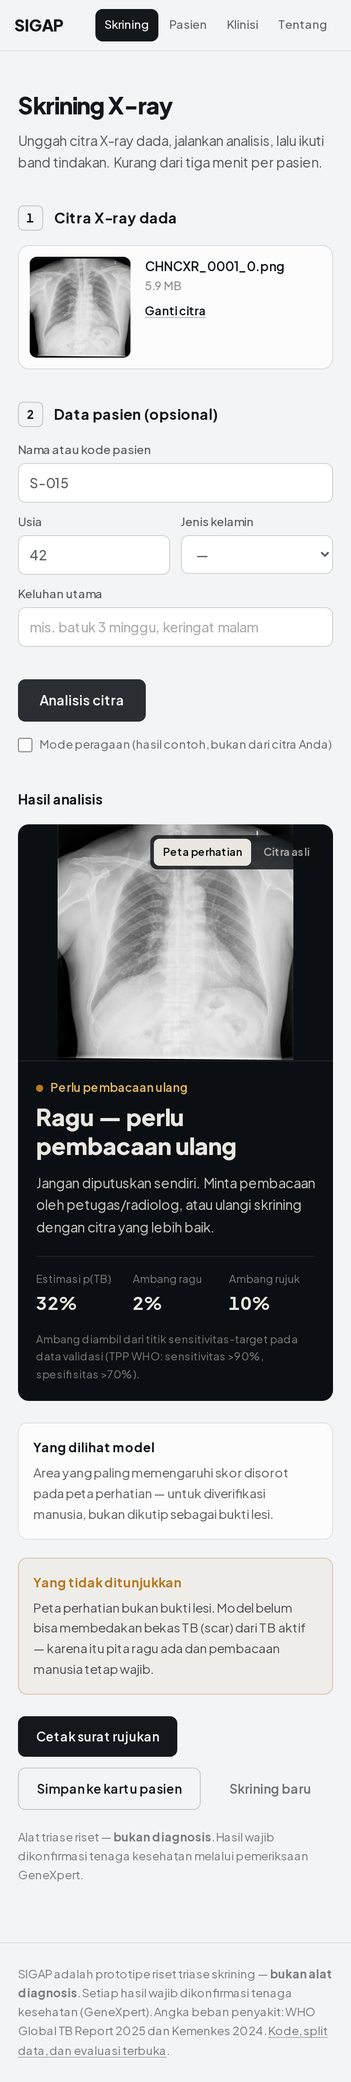
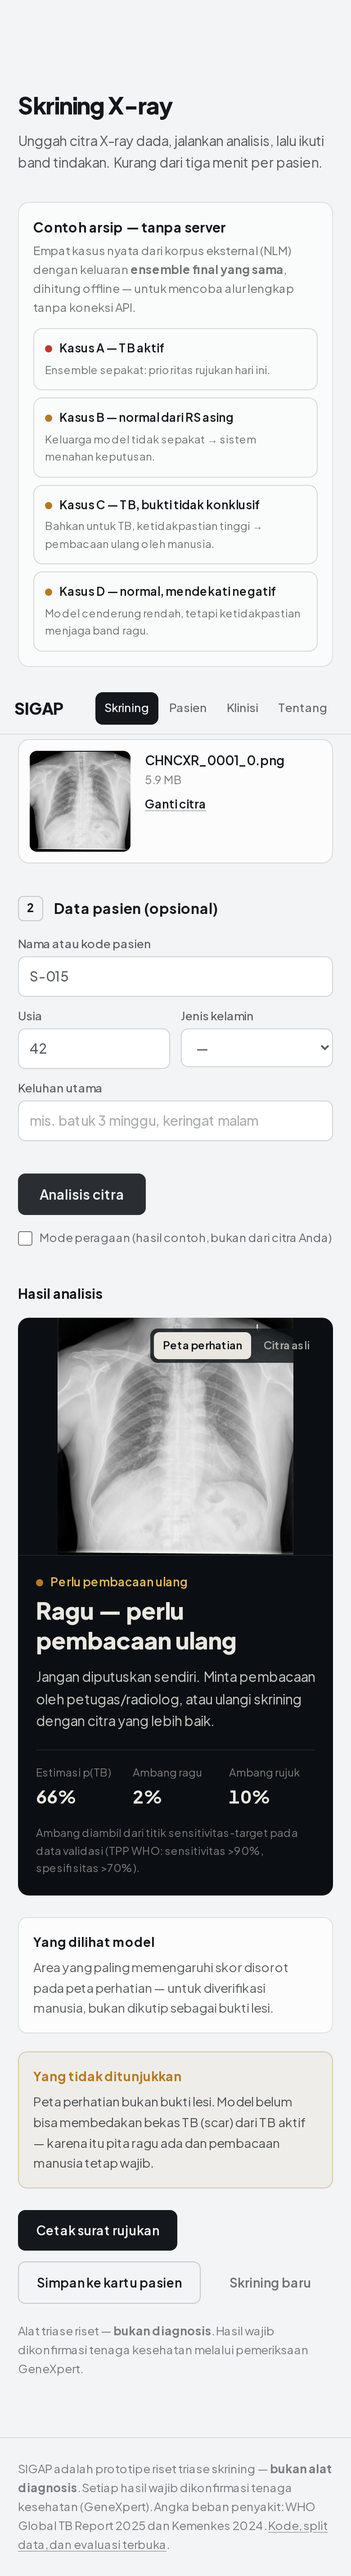
assets: screenshot hasil dari deployment LIVE (VPS + Pages); writeup: link live demo

diff --git a/submission/devpost.md b/submission/devpost.md
@@ -1,6 +1,6 @@
 # SIGAP — calibrated triage for TB screening
 
-**UnivaBio 2026 · AI for Human Health** · Repo: [github.com/Alvnvnc/loop-tb](https://github.com/Alvnvnc/loop-tb)
+**UnivaBio 2026 · AI for Human Health** · Repo: [github.com/Alvnvnc/loop-tb](https://github.com/Alvnvnc/loop-tb) · Live demo: [ip-172-26-13-244.tail40f715.ts.net](https://ip-172-26-13-244.tail40f715.ts.net)
 
 ## Inspiration
 
